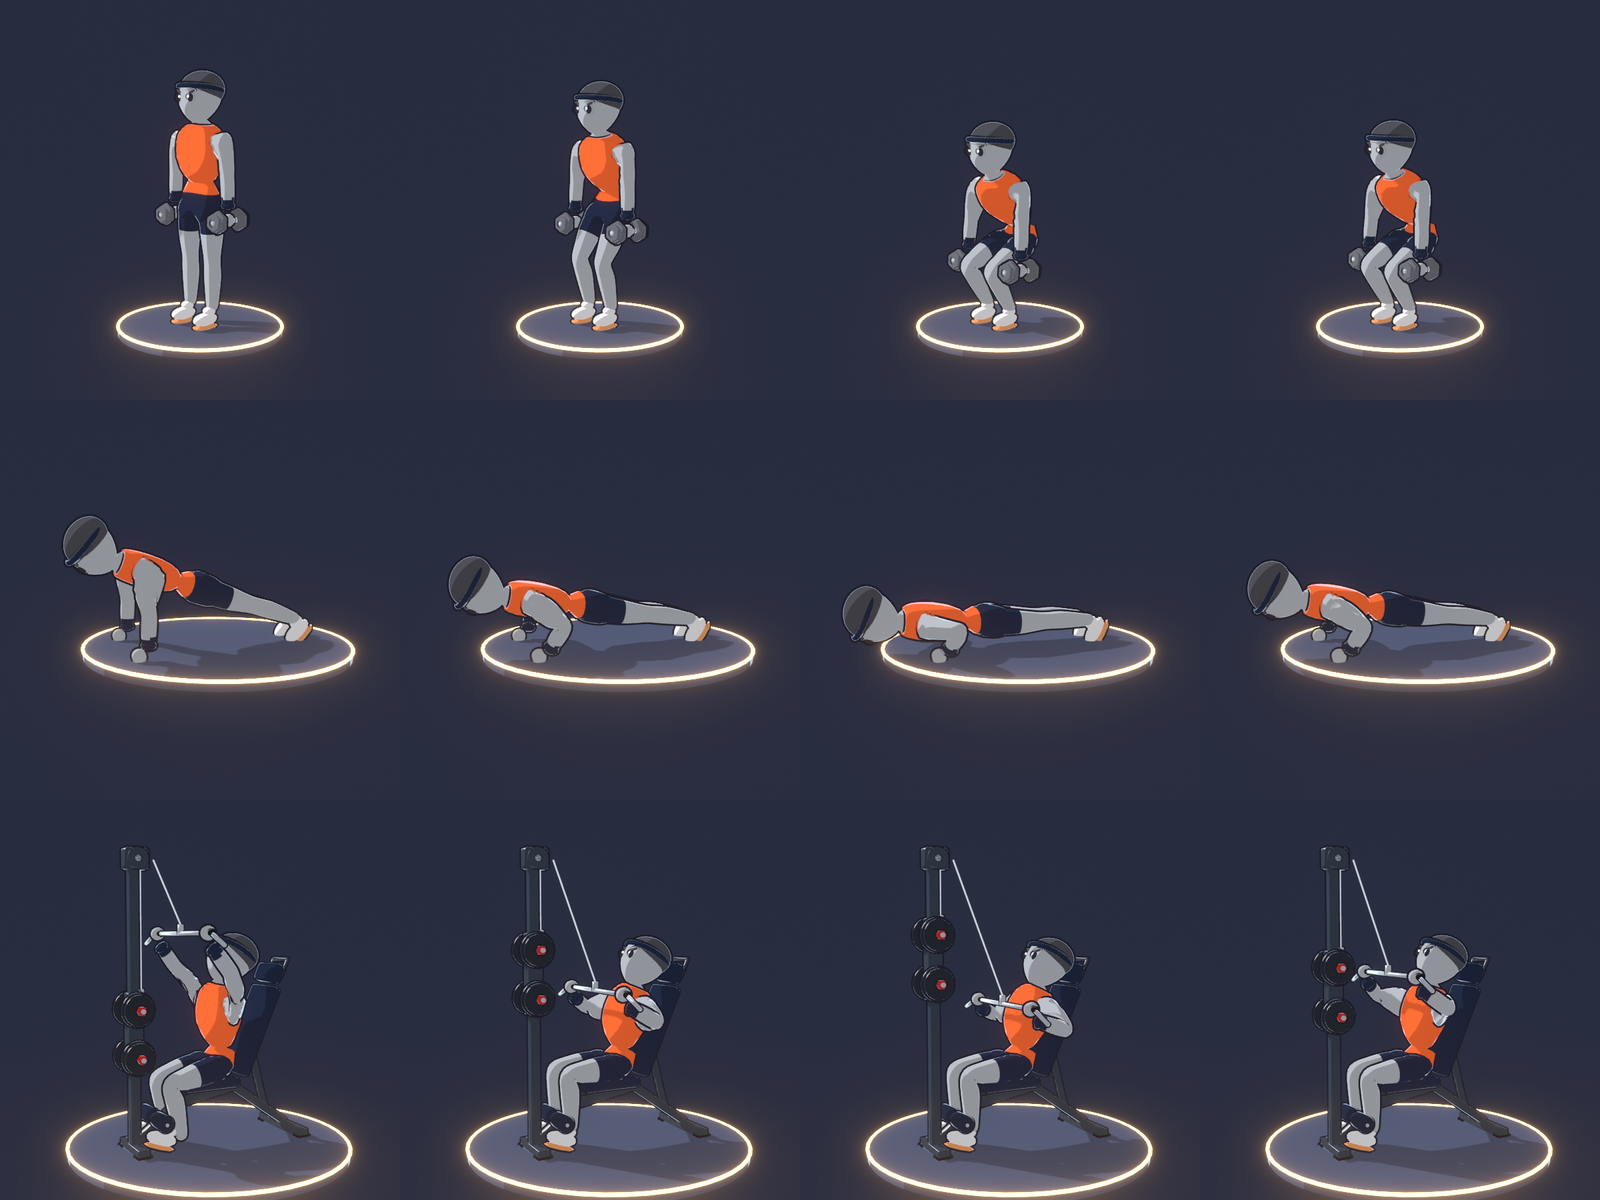
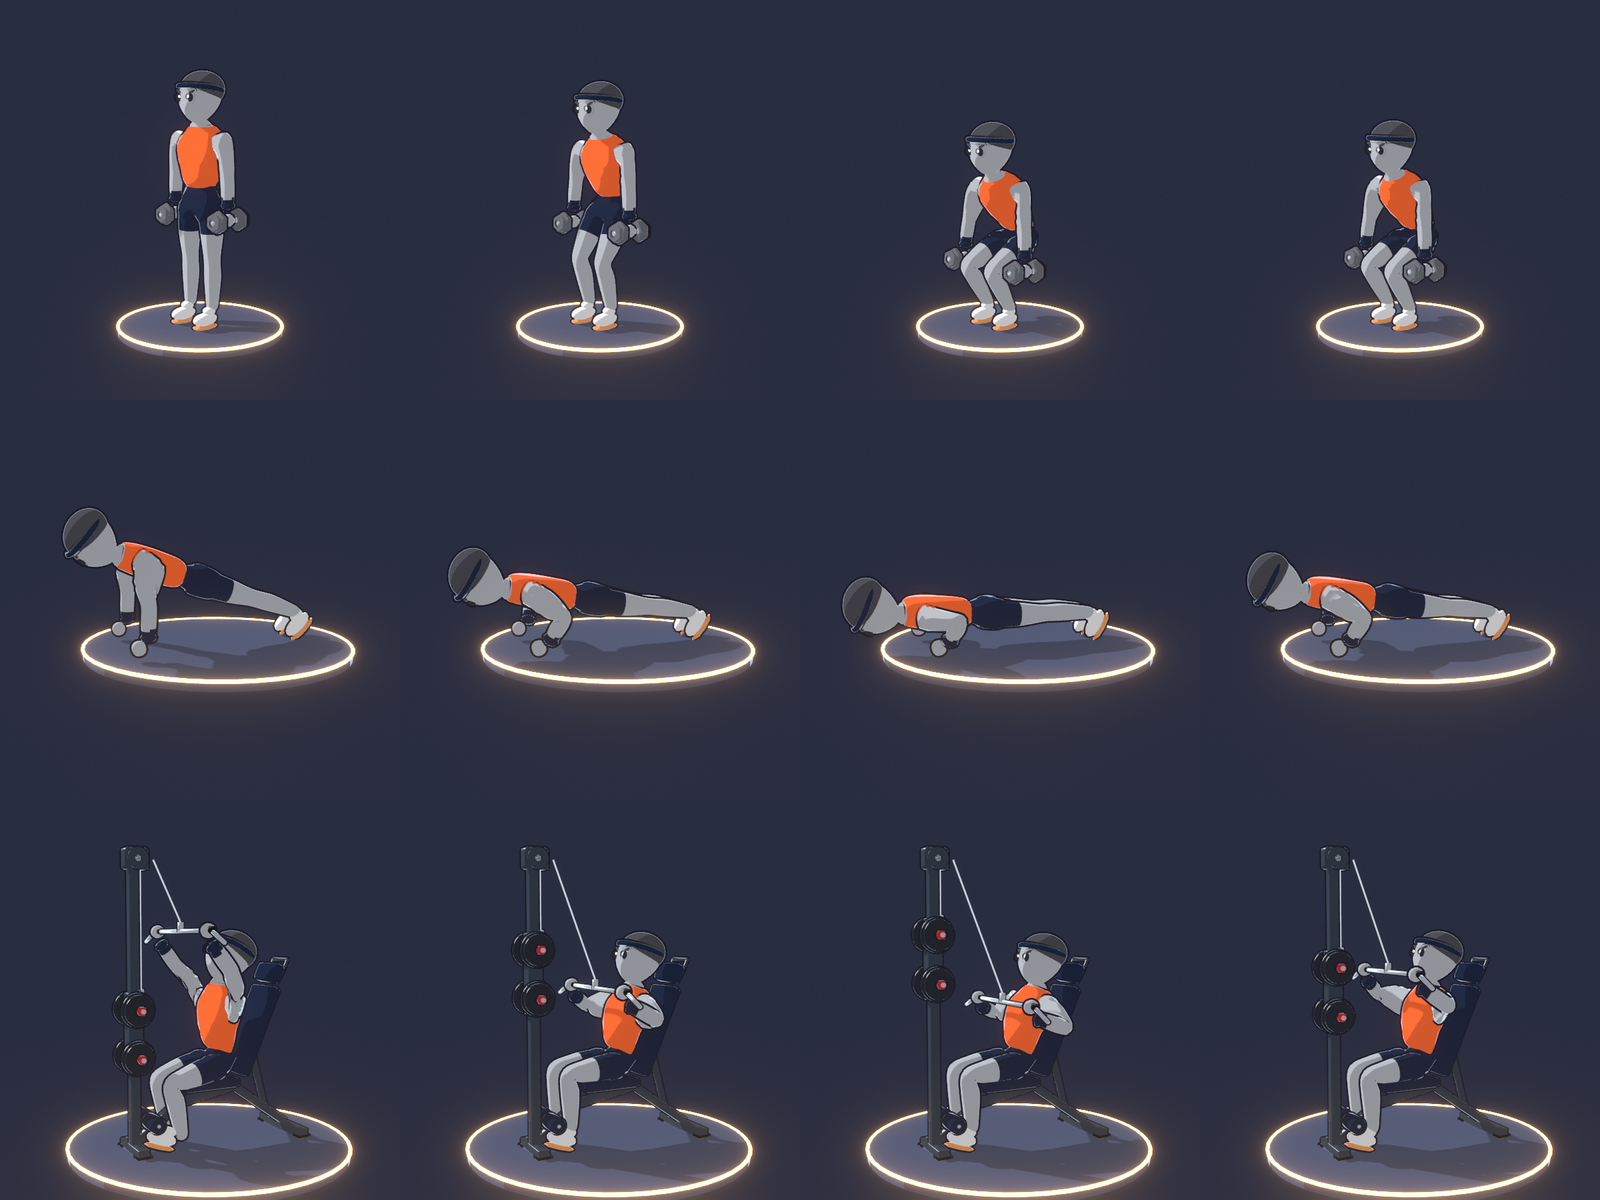
Blender: automatic clip check, ground correction, hide back gear on backrest moves, fix tank waist shape [skip ci]
Claude-Session: https://claude.ai/code/session_01XL283SXB5hAVxGJStW2M59

diff --git a/scripts/blender/clipcheck.py b/scripts/blender/clipcheck.py
@@ -1,0 +1,105 @@
+"""穿模自動檢查：對 hero_proto.py 存下的 hero.blend，逐格算三角形有沒有互相穿過。
+blender -b <輸出資料夾>/hero.blend -P scripts/blender/clipcheck.py -- <報告.json> [每幾格取樣，預設 2]
+
+把角色網格依「面的主要骨頭」和「類別」分組：
+  body＝身體、衣服、鞋、頭髮；gear＝裝備（鈦甲材質）和手上的啞鈴；prop＝器材（椅子、立柱…，下拉槓和鋼索除外）。
+檢查的組合（同一根骨頭、或父子相鄰的骨頭在關節處本來就會重疊，不算）：
+  gear × 其他骨頭的 body/gear、body × 不相鄰骨頭的 body、body/gear × prop；另外檢查有沒有沉到地板下。
+輸出：每格每組的穿透三角形對數，和最嚴重的幾格（拿去截圖人工看）。
+"""
+import bpy, sys, json
+from mathutils.bvhtree import BVHTree
+
+argv = sys.argv[sys.argv.index('--') + 1:] if '--' in sys.argv else []
+OUT = argv[0] if argv else '/tmp/clip.json'
+STEP = int(argv[1]) if len(argv) > 1 else 2
+
+sc = bpy.context.scene
+hero = bpy.data.objects['hero']; rig = bpy.data.objects['rig']
+for md in hero.modifiers:
+    if md.type == 'SOLIDIFY': md.show_viewport = False          # 描邊外殼不算
+GEAR_MATS = {'ti', 'tidk', 'glow', 'flame', 'iron', 'grip'}
+SKIP_PROPS = {'bar', 'cable'}                                    # 手本來就握著
+mats = [m.name if m else '' for m in hero.data.materials]
+parent = {b.name: (b.parent.name if b.parent else None) for b in rig.data.bones}
+# 關節相連的骨頭（骨架裡腳掌沒有父骨頭，所以手動列出）：在關節處本來就會重疊，不算穿模
+JOINTS = {('hips', 'chest'), ('chest', 'head'), ('chest', 'upper_arm'), ('upper_arm', 'forearm'), ('forearm', 'hand'),
+          ('hips', 'thigh'), ('thigh', 'shin'), ('shin', 'foot')}
+def adjacent(a, b):
+    if a == b: return True
+    ba, sa = (a.split('.') + [''])[:2]; bb, sb = (b.split('.') + [''])[:2]
+    if sa and sb and sa != sb: return False
+    return (ba, bb) in JOINTS or (bb, ba) in JOINTS
+
+# 每個面：(類別, 主要骨頭)
+labels = []
+for p in hero.data.polygons:
+    acc = {}
+    for vi in p.vertices:
+        for g in hero.data.vertices[vi].groups:
+            n = hero.vertex_groups[g.group].name; acc[n] = acc.get(n, 0) + g.weight
+    bone = max(acc, key=acc.get) if acc else '?'
+    cat = 'gear' if mats[p.material_index].rstrip('.0123456789') in GEAR_MATS else 'body'
+    labels.append((cat, bone))
+groups = sorted(set(labels))
+
+def prop_objects():
+    out = []
+    for o in sc.objects:
+        if o.type != 'MESH' or o is hero: continue
+        mn = o.data.materials[0].name if o.data.materials else ''
+        if mn.startswith(('stage', 'ring', 'cable', 'holo', 'glow')): continue   # 舞台、光圈、鋼索、特效
+        top = o
+        while top.parent: top = top.parent
+        if top.name in SKIP_PROPS: continue
+        out.append(o)
+    return out
+
+report = {'frames': {}, 'worst': []}
+props = prop_objects()
+for f in range(sc.frame_start, sc.frame_end + 1, STEP):
+    sc.frame_set(f); dg = bpy.context.evaluated_depsgraph_get()
+    ev = hero.evaluated_get(dg); me = ev.to_mesh()
+    mw = hero.matrix_world
+    verts = [mw @ v.co for v in me.vertices]
+    trees = {}
+    for g in groups:
+        polys = [tuple(p.vertices) for p, l in zip(me.polygons, labels) if l == g]
+        if polys: trees[g] = BVHTree.FromPolygons(verts, polys)
+    ptrees = {}
+    for kind in ('硬器材', '軟墊'):
+        pv, pp = [], []
+        for o in props:
+            soft = o.data.materials and o.data.materials[0].name.startswith('pad')
+            if (kind == '軟墊') != bool(soft): continue
+            oe = o.evaluated_get(dg); m2 = oe.to_mesh(); base = len(pv)
+            pv += [o.matrix_world @ v.co for v in m2.vertices]; pp += [tuple(base + i for i in p.vertices) for p in m2.polygons]
+            oe.to_mesh_clear()
+        if pp: ptrees[kind] = BVHTree.FromPolygons(pv, pp)
+    hits = {}
+    keys = list(trees)
+    for i, a in enumerate(keys):
+        for b in keys[i + 1:]:
+            if adjacent(a[1], b[1]): continue
+            n = len(trees[a].overlap(trees[b]))
+            if n: hits[f'{a[0]}:{a[1]} × {b[0]}:{b[1]}'] = n
+        for kind, pt in ptrees.items():
+            n = len(trees[a].overlap(pt))
+            if n: hits[f'{a[0]}:{a[1]} × {kind}'] = n
+    lows = {}
+    for p, l in zip(me.polygons, labels):
+        z = min(verts[i].z for i in p.vertices)
+        if z < -0.01: lows[l] = min(lows.get(l, 0), z)
+    for l, z in lows.items(): hits[f'沉入地板(cm) {l[0]}:{l[1]}'] = round(-z * 100, 1)
+    ev.to_mesh_clear()
+    report['frames'][f] = hits
+    report['worst'].append((sum(v for k, v in hits.items() if not k.startswith('沉') and not k.endswith('軟墊')), f))
+report['worst'] = [f for n, f in sorted(report['worst'], reverse=True)[:3] if n > 0]
+json.dump(report, open(OUT, 'w'), ensure_ascii=False, indent=1)
+# 文字摘要：每一組在整段動作中的最大值
+tot = {}
+for hits in report['frames'].values():
+    for k, v in hits.items(): tot[k] = max(tot.get(k, 0), v)
+print('CLIP', OUT)
+for k, v in sorted(tot.items(), key=lambda x: -x[1]): print(f'  {v:5}  {k}')
+print('  最嚴重的格：', report['worst'])

diff --git a/scripts/blender/moves3d.py b/scripts/blender/moves3d.py
@@ -127,9 +127,9 @@ def build_bench(back_deg):
     # 靠背調整支架（梯形孔架）
     tube((0, 0.42, 0.21), HINGE + dv * 0.25 - nv * 0.05, 0.02)
     # 前端腳踝滾筒（兩顆）＋橫桿
-    pcyl('chrome', (0, -0.47, 0.22), 0.012, 0.42, (1, 0, 0), n=12)
-    tube((0, -0.47, 0.10), (0, -0.47, 0.22), 0.02)
-    for sx in (1, -1): pcyl('pad', (0.12 * sx, -0.47, 0.22), 0.055, 0.17, (1, 0, 0), bevel=0.012)
+    pcyl('chrome', (0, -0.53, 0.22), 0.012, 0.42, (1, 0, 0), n=12)
+    tube((0, -0.53, 0.10), (0, -0.53, 0.22), 0.02)
+    for sx in (1, -1): pcyl('pad', (0.12 * sx, -0.53, 0.22), 0.055, 0.17, (1, 0, 0), bevel=0.012)
     # 立柱＋頂部滑輪盒
     pbox('frame', (0, POST_Y, POST_TOP / 2), (0.032, 0.032, POST_TOP / 2), 0.006)
     pbox('frame', (0, POST_Y + 0.02, POST_TOP - 0.03), (0.05, 0.085, 0.07), 0.02)
@@ -168,7 +168,7 @@ if MOVE == 'squat':
             A, K, Hj = J[s]
             aim(f'thigh.{s}', Hj, K - Hj); aim(f'shin.{s}', K, A - K)
             aim(f'foot.{s}', A, rest[f'foot.{s}'][1] - rest[f'foot.{s}'][0])
-            d = Vector((0.03 * sx, -0.10 * t, -1))
+            d = Vector((0.03 * sx + 0.10 * sx * t, -0.10 * t, -1))   # 蹲低時手往外，啞鈴落在大腿外側
             e = aim(f'upper_arm.{s}', sh[s], d); w = aim(f'forearm.{s}', e, d); aim(f'hand.{s}', w, d)
     for f in range(N):
         sc.frame_set(f); pose(ease(f / 24 if f <= 24 else (47 - f) / 23)); keyall(f)
@@ -224,7 +224,7 @@ elif MOVE == 'pushup':
 # 坐在使用者的啞鈴椅上、面向前端立柱，腳踝勾在滾筒下；寬握直槓從前上方拉到上胸，手肘往下往後、上身後仰靠向靠背。
 elif MOVE == 'pulldown':
     N = 48
-    HIP_Z, HIP_Y = SEAT_Z + 0.085, 0.0
+    HIP_Z, HIP_Y = SEAT_Z + 0.10, 0.0
     GX = 0.40                                         # 握距（手腕 x）
     WHEEL = Vector((0, POST_Y + 0.09, POST_TOP - 0.03))  # 滑輪靠使用者那一側
     stack = build_bench(24)                            # 靠背往後倒 24 度，拉到底時背剛好靠上
@@ -238,7 +238,7 @@ elif MOVE == 'pulldown':
     def lean(t): return D(-6) + D(-18) * t
     def upper(t):
         hm = lower(t); lam = lean(t)
-        return trunk(hm + Vector((0, 0, 0.04)), lam * 0.5, lam, lam - D(20) * (1 - t))
+        return trunk(hm + Vector((0, 0, 0.04)), lam * 0.5, lam, lam * 0.35 - D(20) * (1 - t))   # 拉到底時頭維持往前看，不往後靠
     # 起點：手臂幾乎打直、往前上方（立柱在前面，鋼索斜斜的）；終點：槓子到上胸
     cp0, sh0 = upper(0.0)
     reach = (blen['upper_arm.L'] + blen['forearm.L']) * 0.97
@@ -274,3 +274,15 @@ elif MOVE == 'pulldown':
     CAM = dict(loc=(4.0, -2.2, 1.45), tgt=(0, -0.12, 1.02), lens=58, stage=(0, -0.05, 1.0))
 
 sc.frame_start, sc.frame_end = 0, N - 1
+
+# ---------- 接地修正：裝備比基本款厚（例如推進靴、手甲），手腳釘點是照身體算的 → 有東西沉到地板下，就把整個人抬高 ----------
+_sol = [m for m in bpy.data.objects['hero'].modifiers if m.type == 'SOLIDIFY']
+for m in _sol: m.show_viewport = False
+_hero = bpy.data.objects['hero']
+for f in range(N):
+    sc.frame_set(f); rig.location.z = 0; bpy.context.view_layer.update()
+    dg = bpy.context.evaluated_depsgraph_get(); ev = _hero.evaluated_get(dg); me = ev.to_mesh()
+    low = min((_hero.matrix_world @ v.co).z for v in me.vertices); ev.to_mesh_clear()
+    rig.location.z = max(0.0, -low - 0.002) if low < -0.004 else 0.0
+    rig.keyframe_insert('location', index=2, frame=f)
+for m in _sol: m.show_viewport = True

diff --git a/scripts/blender/hero_proto.py b/scripts/blender/hero_proto.py
@@ -18,6 +18,9 @@ elif '=' in GEAR:
         k, v = kv.split('='); assert k in SLOTS, k; G[k] = v
 if os.environ.get('MOVE', 'squat') != 'squat':
     G['bell'] = 'none'          # 伏地挺身、下拉不拿啞鈴
+# 背靠靠背、躺在椅子上的動作：背部裝備（披風、背包）一定會卡進椅背 → 示範時隱藏
+if os.environ.get('MOVE', 'squat') in ('pulldown',):
+    G['back'] = 'none'
 TOP, BOT = G['top'] == 'titan', G['bottom'] == 'titan'
 def hexc(h):
     h = h.lstrip('#'); return tuple(((int(h[i:i + 2], 16) / 255 + 0.055) / 1.055) ** 2.4 for i in (0, 2, 4))
@@ -214,17 +217,20 @@ for f_ in skinbody.data.polygons:
         f_.material_index = 2
 # 上衣：基本款是貼身背心（只有肩帶），鈦甲是全身緊身衣
 SP = [((0, 0, 1.03), (0.135, 0.10)), ((0, -0.005, 1.30), (0.205, 0.125)), ((0, 0, 1.46), (0.10, 0.09) if TOP else (0.12, 0.105))]
-SE = [(0, 1), (1, 2)]
+if not TOP:  # 腰和胸之間加控制點，軀幹維持直筒倒三角（不加會被收成沙漏形）
+    SP[0] = ((0, 0, 1.02), (0.142, 0.104)); SP.insert(1, ((0, -0.003, 1.15), (0.168, 0.112)))
+SE = [(0, 1), (1, 2)] if TOP else [(0, 1), (1, 2), (2, 3)]
+CH = 1 if TOP else 2   # 胸部節點的編號
 for sx in (1, -1):
     if not TOP:
-        SP += [((0.15 * sx, 0.0, 1.455), (0.075, 0.105))]; SE += [(1, len(SP) - 1)]
+        SP += [((0.15 * sx, 0.0, 1.455), (0.075, 0.105))]; SE += [(CH, len(SP) - 1)]
         continue
     SP += [((0.23 * sx, 0, 1.42), (0.095, 0.09)), ((0.28 * sx, -0.005, 1.30), (0.075, 0.073))]
     SE += [(1, len(SP) - 2), (len(SP) - 2, len(SP) - 1)]
     if TOP:
         SP += [((0.33 * sx, 0, 1.14), (0.058, 0.056)), ((0.35 * sx, -0.02, 0.93), (0.046, 0.042))]
         SE += [(len(SP) - 3, len(SP) - 2), (len(SP) - 2, len(SP) - 1)]
-shirt = skinmesh('shirt', 'shirt', SP, SE, 1.08 if TOP else 1.12)
+shirt = skinmesh('shirt', 'shirt', SP, SE, 1.08 if TOP else 1.05)
 HP = [((0, 0, 0.95), (0.155, 0.105)), ((0, 0, 1.07), (0.135, 0.10))]
 HE = [(0, 1)]
 for sx in (1, -1):

diff --git a/scripts/blender/gear_titan.py b/scripts/blender/gear_titan.py
@@ -94,7 +94,7 @@ if G['bottom'] == 'titan':
         a, b = B[f'thigh.{s}']; d = b - a
         obox(f'thigh.{s}', 'ti', a + d * 0.55 + Vector((0.01 * sx, -0.085, 0)), (0.075, 0.03, d.length * 0.3), d, 0.02)
         obox(f'thigh.{s}', 'glow', a + d * 0.55 + Vector((0.01 * sx, -0.117, 0)), (0.008, 0.004, d.length * 0.2), d, 0)
-        obox(f'thigh.{s}', 'tidk', a + d * 0.5 + Vector((0.09 * sx, 0, 0)), (0.02, 0.06, d.length * 0.25), d, 0.008)
+        obox(f'thigh.{s}', 'tidk', a + d * 0.5 + Vector((0.072 * sx, 0, 0)), (0.016, 0.06, d.length * 0.25), d, 0.008)
         k, an = B[f'shin.{s}']; d2 = an - k
         ellipsoid(f'shin.{s}', 'ti', k + Vector((0, -0.07, -0.01)), (0.065, 0.04, 0.075))     # 護膝
         cyl(f'shin.{s}', 'glow', k + Vector((0, -0.112, -0.01)), 0.018, 0.008, (0, -1, 0), 8)

diff --git a/docs/3d-system.md b/docs/3d-system.md
@@ -17,6 +17,27 @@
 - 裝備：12 系列 × 8 部位 ＝ 96 件（`GearCatalog.swift`）。CLAUDE.md 的美術規定照樣適用（灰階認得出、同部位不撞形、越稀有越華麗）。
   目前只有鈦甲（titan）做了 3D 測試版，可逐部位混搭（`GEAR="head=titan,hands=titan"`）。
 
+## 防穿模（動作多、造型多，小穿模可接受，但要系統化排除）
+三層做法，越前面越省事：
+
+**1. 設計規則（做裝備時就避開）**
+- 硬殼裝備（盔甲片、護膝、手甲）只綁一根骨頭，放在肢段中段，**不跨關節**；關節附近只放小而圓的零件。
+- 往身體外側凸的零件（側板、肩甲）有寬度上限：大腿側板離大腿中心線 ≤ 7 cm（手拿啞鈴會碰到）。
+- 軟的衣服（背心、短褲、緊身衣）沿用身體權重（Data Transfer）；衣服底下的身體往內壓 1.2 cm，完全蓋住的身體面刪掉。
+  衣服只比身體大約 5%：再大會變形（背心放大到 12% 時胸口鼓成球、腰被收成沙漏）。
+- 沒有袖子的衣服不吃手臂權重；身體軀幹（|x|<0.235）的手臂權重改給胸部。
+
+**2. 動作層（做動作時就處理）**
+- 接地修正：每一格算整個角色最低點，有東西沉到地板下就把整個人抬高（裝備比基本款厚時自動生效）。
+- 背靠椅背或躺在椅子上的動作，示範時**隱藏背部裝備**（披風、背包），`hero_proto.py` 的清單。
+- 手拿啞鈴的動作，手的軌跡要繞開大腿（深蹲蹲低時手往外）。
+
+**3. 自動檢查（`scripts/blender/clipcheck.py`，每個動作 × 每個系列都跑）**
+- 逐格（每 2 格）用三角形相交檢查：裝備 × 其他骨頭、身體 × 不相鄰骨頭、角色 × 器材（硬器材／軟墊分開）、沉入地板。
+- 關節相連的骨頭本來就會重疊，不算；碰到軟墊（座墊、滾筒）是正常接觸，只列出不計入最嚴重的格。
+- 只把最嚴重的格截圖給人看，不用逐格目視。修不掉的小穿模記在報告裡，可以接受。
+- 動作 60 個 × 系列 12 個＝ 720 組，全部是電腦跑，不花 token；只有有問題的組才需要我看圖修。
+
 ## 階段
 1. **技術驗證（先做，決定整條管線）**：把基本款角色＋一個動作放進 App，用 RealityKit 即時播放，上機確認：
    - 格式：USDZ（帶骨架動畫）。這裡的 Ubuntu Blender 4.0 沒有 USD 匯出；改在 GitHub Actions macOS runner 下載官方 Blender 匯出，

diff --git a/scripts/blender/README.md b/scripts/blender/README.md
@@ -22,6 +22,8 @@ blender.org 下載站被網路政策擋，PyPI 的 `bpy` 需要 Python 3.11。
 - 衣服用 Data Transfer 複製身體權重；衣服底下的身體面塗成衣服色。
 - 自動權重會讓手臂影響延伸到胸口：軀幹 |x|<0.235 的手臂權重改給胸部，0.235～0.29 漸變（肩關節外側才跟手臂）。
 - 背心沒有袖子：權重只留軀幹。背心範圍內凸出的身體頂點壓到背心內 1.2 cm；完全蓋住的身體面刪掉。
+- 自動檢查：`blender -b <輸出>/hero.blend -P scripts/blender/clipcheck.py -- 報告.json 2`（見 docs/3d-system.md「防穿模」）。
+- 接地修正（moves3d.py 結尾）、背靠椅背的動作隱藏背部裝備（hero_proto.py）。
 - 檢查方法：從正上方看伏地挺身（上背最容易穿）；依頂點最大權重骨頭上色找是哪根骨頭帶出來的。
 預覽：`docs/art/blender/`（`squat_basic.gif`、`squat_titan.gif`、`cmp.png`）。
 
